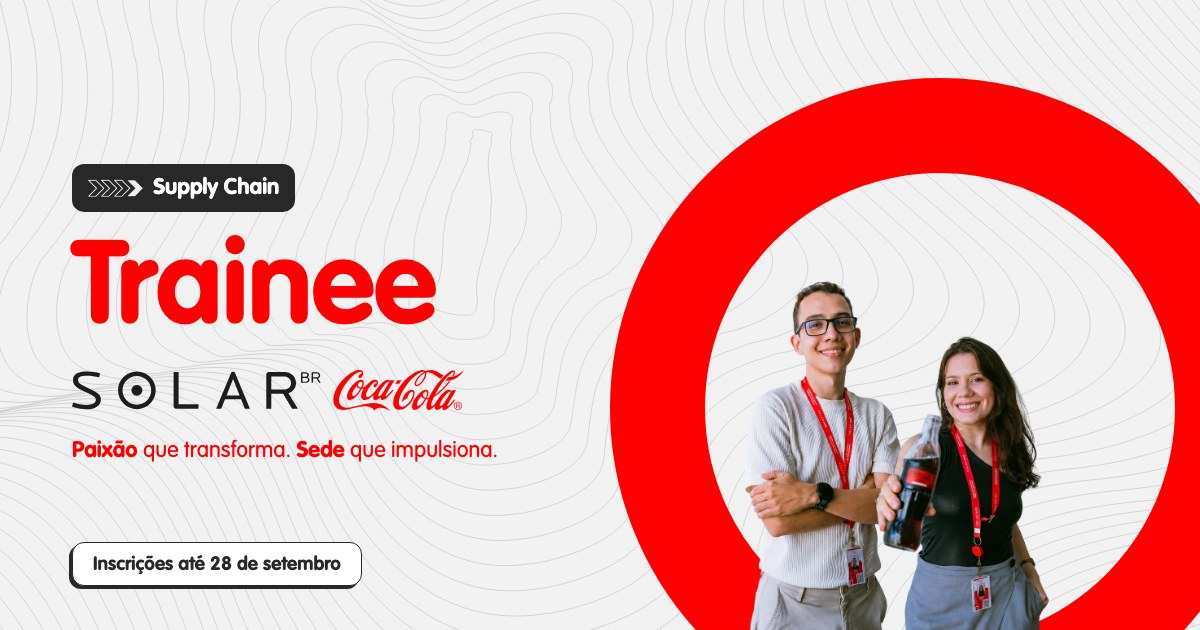
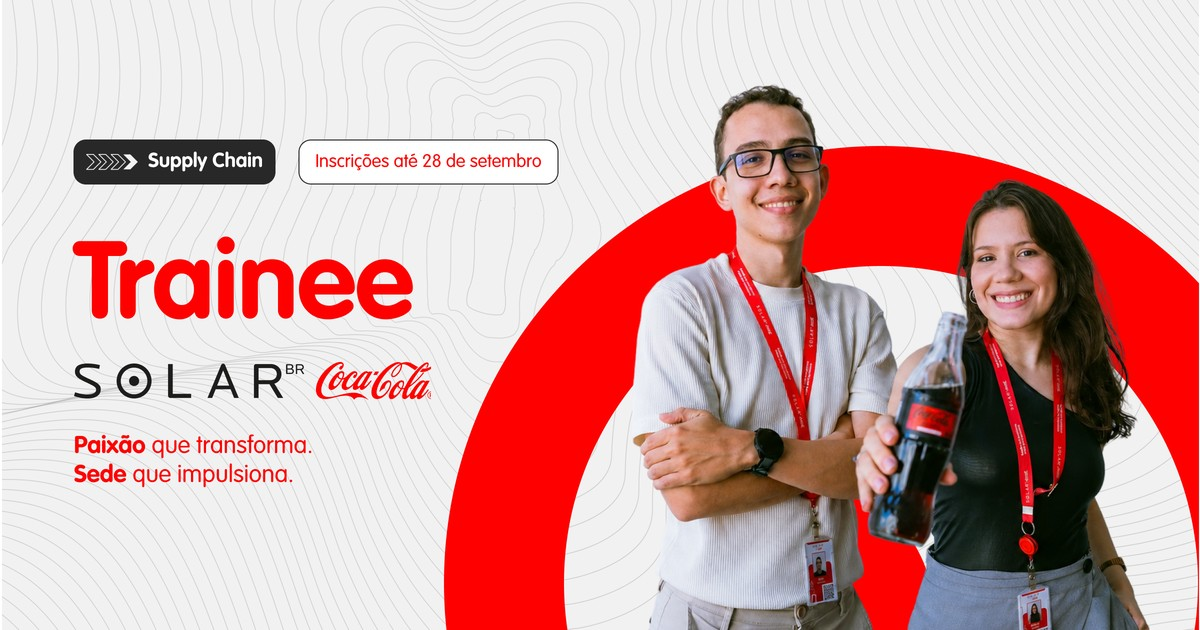
feat: og do Figma, link da Maatz com UTM e política de privacidade
Open Graph passa a ser a que a Bia desenhou (Figma 4168:117), exportada em
2x e reduzida para 1200x630. Sai a que eu tinha composto, junto com o
gerador que a produzia.

Rodapé: a assinatura da Maatz vira link com UTM, no mesmo padrão do
kaspersky-site, trocando utm_source para trainee-solar-coca-cola. Área de
toque de 44px, target=_blank com rel=noopener e rótulo avisando que abre
em nova aba.

Legais: fica só Política de Privacidade, apontando para
eureca.me/politica-de-privacidade/. 'Aviso de Cookies' removido a pedido.

diff --git a/src/data/site.ts b/src/data/site.ts
@@ -31,8 +31,10 @@ export const SOCIAL_LINKS = [
   { label: 'YouTube', href: 'https://www.youtube.com/@SolarBrCocaCola', icon: 'YouTube' },
 ] as const;
 
+/** Assinatura da agência no rodapé. O utm_source identifica de qual site veio. */
+export const MAATZ_URL =
+  'https://maatz.com.br?utm_source=trainee-solar-coca-cola&utm_medium=footer&utm_campaign=portfolio';
+
 export const LEGAL_LINKS = [
-  // PENDENTE: URLs das políticas não informadas.
-  { label: 'Aviso de Cookies', href: '#' },
-  { label: 'Política de Privacidade', href: '#' },
+  { label: 'Política de Privacidade', href: 'https://eureca.me/politica-de-privacidade/' },
 ] as const;

diff --git a/PROJECT.md b/PROJECT.md
@@ -99,6 +99,7 @@ e com `prefers-reduced-motion`.
 |---|---|---|---|
 | Logo Solar horizontal | Figma `4010:399` | `public/images/brand/logo.svg` | SVG ✅ |
 | Logo Maatz | template | `public/images/brand/maatz.svg` | SVG ✅ |
+| Open Graph | Figma `4168:117` (Bia), export 2× | `public/og.jpg` | JPG ✅ |
 | Favicon | logo horizontal, remontado empilhado | `public/favicon.svg` + PNG 96/180 | SVG ✅ |
 | Logo branco (rodapé) | recolorido de `logo.svg` | `public/images/brand/logo-branco.svg` | SVG ✅ |
 | Logo Eureca | Figma `4095:94` | `public/images/brand/eureca.webp` | WebP ✅ |
@@ -141,6 +142,14 @@ e com `prefers-reduced-motion`.
 
 ## Pendências / bloqueios
 
+> **Resolvida em 27/08** — Open Graph desenhada pela Bia (Figma `4168:117`),
+> exportada em 2× e reduzida para 1200×630. A versão que eu tinha montado
+> saiu junto com o gerador.
+>
+> **Resolvida em 27/08** — rodapé: só Política de Privacidade
+> (`eureca.me/politica-de-privacidade/`), "Aviso de Cookies" removido, e a
+> assinatura da Maatz linkada com UTM.
+>
 > **Resolvida em 26/08** — respostas do FAQ recebidas do cliente. A 4ª
 > pergunta mudou de "Quando vou receber" para "Como vou receber": a página
 > segue o texto do cliente, não o do Figma.
@@ -151,8 +160,6 @@ e com `prefers-reduced-motion`.
 - [ ] **Domínio final** — trava canonical, OG, sitemap e `robots.txt`. *Cliente.*
 - [ ] **VAG Rounded Std (.woff2)** — Light e Bold. Até chegar, o site renderiza
       em Nunito e não fecha pixel-perfect. *Cliente.*
-- [ ] **URLs de Aviso de Cookies e Política de Privacidade** — `LEGAL_LINKS`
-      está `#`. *Cliente.*
 - [ ] **Favicon** — montei um a partir do logo horizontal (SOLAR + Coca-Cola
       empilhados, fundo branco), igual à imagem que você mandou. Confirmar se é
       esse mesmo o arquivo oficial. *Cliente.*
